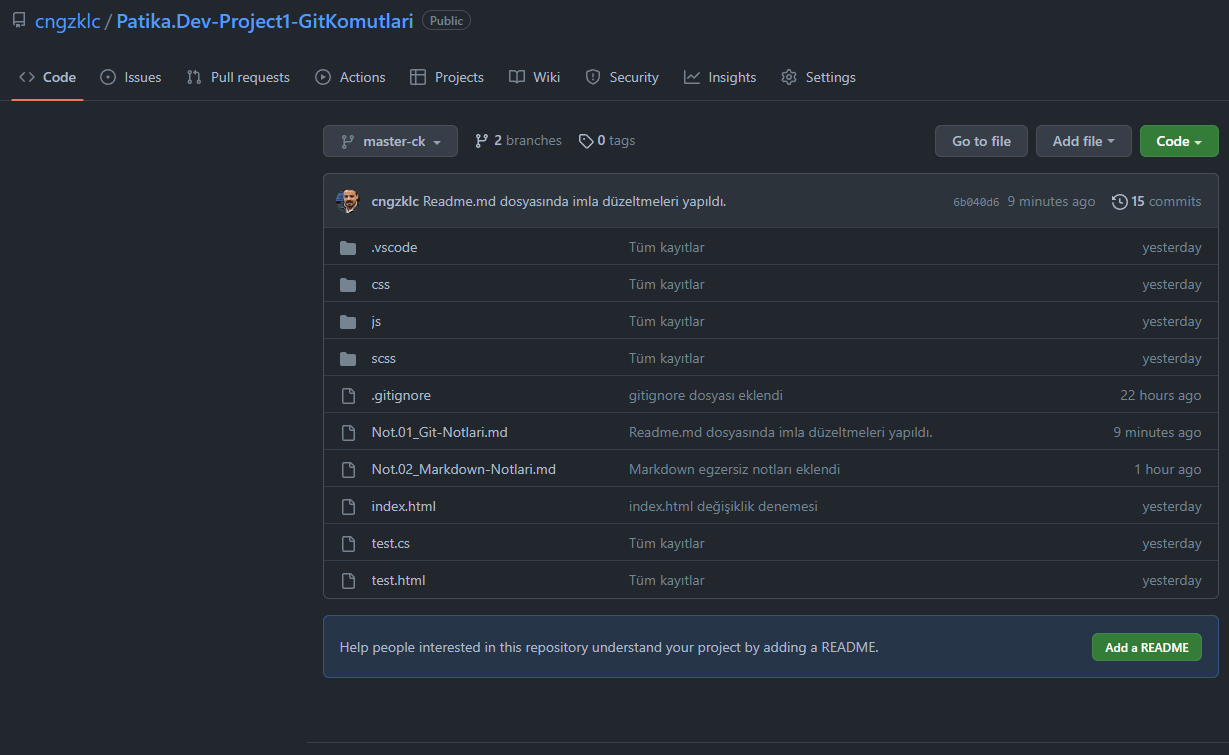
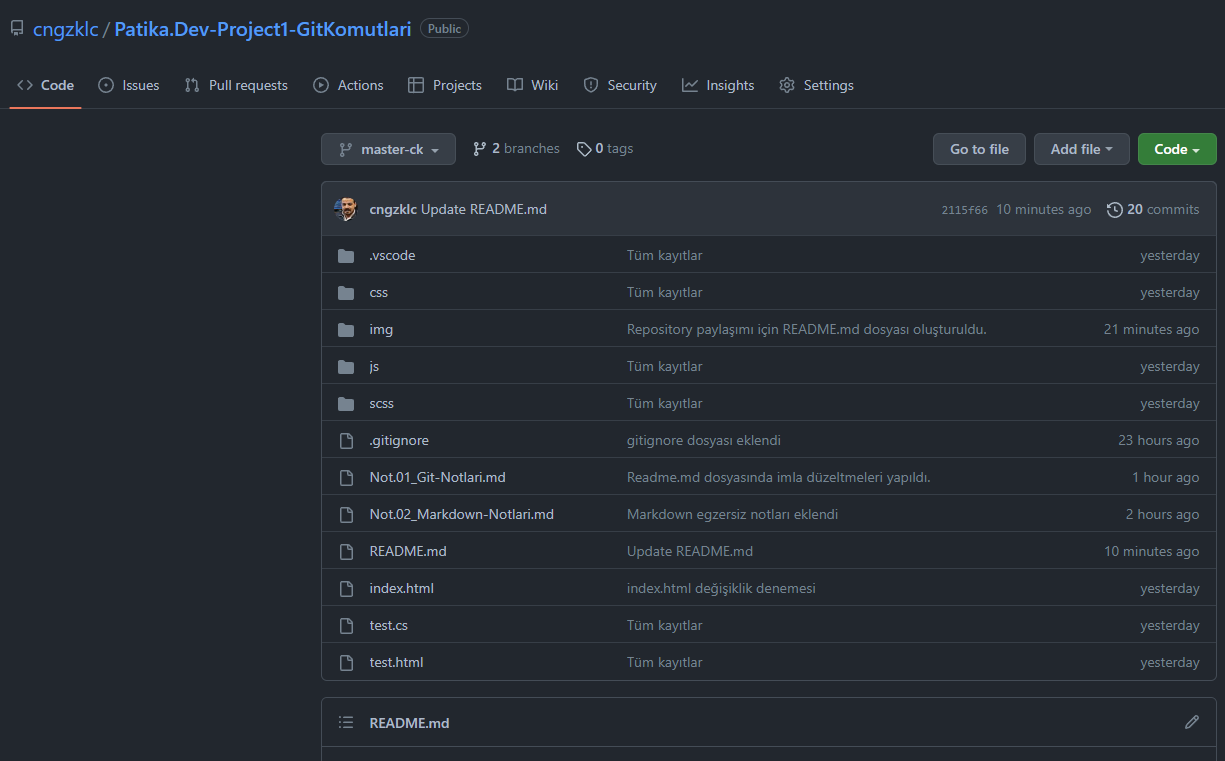
README.md dosyası ve cngzklc_Pativa.Dev_Project1.PNG dosyası güncellendi

diff --git a/README.md b/README.md
@@ -1,0 +1,27 @@
+# Patika.Dev > Başlangıç Seviyesi Eğitimleri > Git ve Markdown Ders Notlarını ve Uygulamalarını Barındırıyor.
+
+## Installation
+ `git clone  https://github.com/cngzklc/Patika.Dev-Project1-GitKomutlari.git`
+
+ ![](https://github.com/cngzklc/Patika.Dev-Project1-GitKomutlari/blob/master-ck/img/cngzklc_Patika.Dev_Project1.PNG)
+
+ ## Usage
+
+ 1. Örnek uygulamaları clone'layacağınız bir klasör oluşturunuz. Bu klasörün ismi "GitHup Clones" olsun.
+    Örneğin; "C:\Users\xxxxx\Documents\GitHup Clones"
+ 2. Visual Studio Code'u açınız.
+ 3. File/Open Folder'dan (Ctrl+K+O) "C:\Users\xxxxx\Documents\GitHup Clones"  klasörüne geliniz ve sağ click yaparak **Git Bash Here**'i çalıştırınız.
+ ![](https://github.com/cngzklc/Patika.Dev-Project1-GitKomutlari/blob/master-ck/img/GitBashHere_Run.png)
+
+ 4.  Git Bash Here Installation kısmında belirtilen komutu ve linki yazarak projeyi clone'layınız.
+ ![](https://github.com/cngzklc/Patika.Dev-Project1-GitKomutlari/blob/master-ck/img/GitBashHere_CloneRepo.png?raw=true)
+ 5. VS Code open folder'a tıklayarak clone'ladığınız projenin klasörünü seçerek "Select Folder" butonuna tıklayınız.
+ ![](https://github.com/cngzklc/Patika.Dev-Project1-GitKomutlari/blob/master-ck/img/GitBashHere_OpenFolder.png)
+ 6. Not.01_Git-Notlari.md ve Not.02_Markdown-Notlari.md dosylarını markdown preview ile inceleyiniz.
+    1. VS Code > View > Command Palatte
+    2. markdown yazıp aratınız
+    3. Markdown: Open Preview'i seçiniz.
+    
+![](https://github.com/cngzklc/Patika.Dev-Project1-GitKomutlari/blob/master-ck/img/Markdown_OpenPreview.png)
+
+![](https://github.com/cngzklc/Patika.Dev-Project1-GitKomutlari/blob/master-ck/img/Git_Notlari.PNG)
